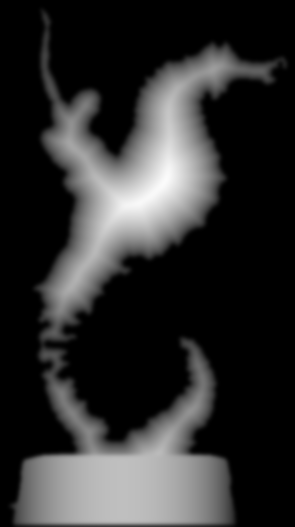
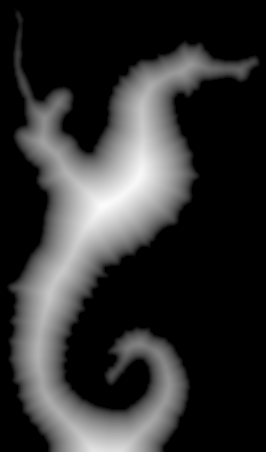
Caballito: complete the sunlit tail and turn it in full 3D
The cut-out now keeps the sun-lit golden bronze on the tail curl, so the
tail is whole. The statue is inflated into a closed two-sided volume and
stands on a real textured cylinder, so it turns a full 360 degrees.

Claude-Session: https://claude.ai/code/session_01EZpq1FJgh5fLrum1puGR5B

diff --git a/vallarta-web/scene3d.js b/vallarta-web/scene3d.js
@@ -1,27 +1,69 @@
 // "El Caballito" by Rafael Zamarripa, the boy riding a seahorse on the Puerto Vallarta Malecón.
-// The statue is the real photo, cut out and raised into a relief from a depth map, so every
-// detail (the boy's face, the ribs, the patina) is exactly the statue's. It turns slowly back and
-// forth on its own; visitors do not drag it. A full spin would show that the relief has no back,
-// so the turn stays within about 35 degrees each way.
+// Built in 3D from the real photo: the cut-out statue is inflated from its silhouette into a
+// closed, two-sided volume (front shell plus a mirrored back shell meeting at the outline), lit
+// so its shading changes as it turns. Every detail (the boy, the ribs, the patina) comes from
+// the photo. It turns a full circle on its own; visitors do not drag it.
 import * as THREE from "./vendor/three.module.min.js";
 import { GLTFLoader } from "./vendor/addons/loaders/GLTFLoader.js";
 import { RoomEnvironment } from "./vendor/addons/environments/RoomEnvironment.js";
 
-// Drop a real 3D scan of the statue here (for example from Polycam) and it is used instead,
-// turning a full 360 degrees.
+// Drop a real 3D scan of the statue here (for example from Polycam) and it is used instead.
 const REAL_MODEL_URL = "models/caballito.glb";
 const PHOTO_URL = "img/caballito.webp";
 const DEPTH_URL = "img/caballito-depth.png";
-const HEIGHT = 4.2;           // world units, statue + pedestal
-const RELIEF = 0.75;          // how far the thickest part stands out from the plane
-const SWAY = 0.6;             // radians each way
+const BASE_URL = "img/caballito-base.webp";
+const HEIGHT = 4.2;          // world units, statue + pedestal
+const RELIEF = 0.42;         // half-thickness of the thickest part; the real seahorse is flat-sided
+// Where each part sits in the source photo, in pixels: [left, top, right, bottom].
+const SRC = { statue: [152, 94, 418, 546], base: [134, 546, 362, 619] };
+
+function loadImage(src) {
+  return new Promise((resolve, reject) => {
+    const img = new Image();
+    img.onload = () => resolve(img);
+    img.onerror = reject;
+    img.src = src;
+  });
+}
+
+// One shell of the statue: a dense plane pushed out along z by the depth map.
+function shell(width, height, depth, dw, dh, sign) {
+  const sx = 260, sy = Math.round(260 * height / width);
+  const geo = new THREE.PlaneGeometry(width, height, sx, sy);
+  const pos = geo.attributes.position, uv = geo.attributes.uv;
+  for (let i = 0; i < pos.count; i++) {
+    const u = uv.getX(i), v = uv.getY(i);
+    const x = Math.min(dw - 1, Math.round(u * (dw - 1))), y = Math.min(dh - 1, Math.round((1 - v) * (dh - 1)));
+    const d = depth[(y * dw + x) * 4] / 255;
+    pos.setZ(i, sign * Math.max(0, d - 0.06) * RELIEF);
+  }
+  if (sign < 0) {
+    // Flip the winding so the back shell faces outward.
+    const idx = geo.index.array;
+    for (let i = 0; i < idx.length; i += 3) { const t = idx[i + 1]; idx[i + 1] = idx[i + 2]; idx[i + 2] = t; }
+  }
+  geo.computeVertexNormals();
+  return geo;
+}
 
 export function createScene(canvas, { reduceMotion = false } = {}) {
   const renderer = new THREE.WebGLRenderer({ canvas, antialias: true, alpha: true });
   renderer.setPixelRatio(Math.min(window.devicePixelRatio || 1, 2));
   renderer.outputColorSpace = THREE.SRGBColorSpace;
+  renderer.toneMapping = THREE.ACESFilmicToneMapping;
+  renderer.toneMappingExposure = 1.0;
 
   const scene = new THREE.Scene();
+  const pmrem = new THREE.PMREMGenerator(renderer);
+  scene.environment = pmrem.fromScene(new RoomEnvironment(renderer), 0.04).texture;
+  scene.add(new THREE.HemisphereLight(0xfff3e6, 0x2a4690, 0.9));
+  const key = new THREE.DirectionalLight(0xffe0c2, 1.8);
+  key.position.set(3, 4, 6);
+  scene.add(key);
+  const rim = new THREE.DirectionalLight(0xbfd2ff, 1.2);
+  rim.position.set(-4, 3, -5);
+  scene.add(rim);
+
   const camera = new THREE.PerspectiveCamera(30, 1, 0.1, 100);
   const pivot = new THREE.Group();
   scene.add(pivot);
@@ -32,49 +74,64 @@ export function createScene(canvas, { reduceMotion = false } = {}) {
     c.width = c.height = 128;
     const g = c.getContext("2d");
     const grad = g.createRadialGradient(64, 64, 4, 64, 64, 64);
-    grad.addColorStop(0, "rgba(12,16,33,0.45)");
+    grad.addColorStop(0, "rgba(12,16,33,0.4)");
     grad.addColorStop(1, "rgba(12,16,33,0)");
     g.fillStyle = grad;
     g.fillRect(0, 0, 128, 128);
     return new THREE.CanvasTexture(c);
   })();
-  const shadow = new THREE.Mesh(new THREE.PlaneGeometry(2.6, 0.9), new THREE.MeshBasicMaterial({ map: shadowTex, transparent: true, depthWrite: false }));
+  const shadow = new THREE.Mesh(new THREE.PlaneGeometry(3.4, 3.4), new THREE.MeshBasicMaterial({ map: shadowTex, transparent: true, depthWrite: false }));
   shadow.rotation.x = -Math.PI / 2;
   shadow.position.y = -HEIGHT / 2 + 0.01;
   scene.add(shadow);
 
-  let fullSpin = false;
-  const loader = new THREE.TextureLoader();
-  Promise.all([loader.loadAsync(PHOTO_URL), loader.loadAsync(DEPTH_URL)]).then(([photo, depth]) => {
+  let scanned = false;
+  const tex = new THREE.TextureLoader();
+  Promise.all([tex.loadAsync(PHOTO_URL), loadImage(DEPTH_URL), tex.loadAsync(BASE_URL)]).then(([photo, depthImg, baseTex]) => {
+    if (scanned) return;
     photo.colorSpace = THREE.SRGBColorSpace;
     photo.anisotropy = renderer.capabilities.getMaxAnisotropy();
-    const aspect = photo.image.width / photo.image.height;
-    const geo = new THREE.PlaneGeometry(HEIGHT * aspect, HEIGHT, 240, Math.round(240 / aspect));
-    // The photo already carries its own light, so it is shown unlit: emissive photo, black diffuse.
-    const mat = new THREE.MeshLambertMaterial({
-      color: 0x000000, map: photo, emissive: 0xffffff, emissiveMap: photo,
-      displacementMap: depth, displacementScale: RELIEF, alphaTest: 0.5, side: THREE.DoubleSide,
+    const c = document.createElement("canvas");
+    c.width = depthImg.width; c.height = depthImg.height;
+    const g = c.getContext("2d", { willReadFrequently: true });
+    g.drawImage(depthImg, 0, 0);
+    const depth = g.getImageData(0, 0, c.width, c.height).data;
+    const px = HEIGHT / (SRC.base[3] - SRC.statue[1]);           // world units per source pixel
+    const axis = (SRC.base[0] + SRC.base[2]) / 2;                 // the pedestal's center is the turning axis
+    const [sl, st, sr, sb] = SRC.statue;
+    const width = (sr - sl) * px, height = (sb - st) * px;
+    // Photo colors stay true (emissive) while the lights add shape as it turns.
+    const mat = new THREE.MeshStandardMaterial({
+      map: photo, emissive: 0xffffff, emissiveMap: photo, emissiveIntensity: 0.55,
+      roughness: 0.55, metalness: 0.1, alphaTest: 0.5,
     });
-    const relief = new THREE.Mesh(geo, mat);
-    relief.position.z = -RELIEF * 0.35;     // turn around the middle of the relief, not its back plane
-    if (!fullSpin) pivot.add(relief);
+    const body = new THREE.Group();
+    body.add(new THREE.Mesh(shell(width, height, depth, c.width, c.height, 1), mat));
+    body.add(new THREE.Mesh(shell(width, height, depth, c.width, c.height, -1), mat));
+    body.position.set(((sl + sr) / 2 - axis) * px, HEIGHT / 2 - height / 2, 0);
+    pivot.add(body);
+
+    // The round pedestal is a real cylinder: the photo's front half wraps around, mirrored behind.
+    const [bl, bt, br, bb] = SRC.base;
+    const radius = ((br - bl) / 2) * px, bh = (bb - bt) * px;
+    baseTex.colorSpace = THREE.SRGBColorSpace;
+    baseTex.wrapS = THREE.MirroredRepeatWrapping;
+    baseTex.repeat.x = 2;
+    const sideMat = new THREE.MeshStandardMaterial({ map: baseTex, emissive: 0xffffff, emissiveMap: baseTex, emissiveIntensity: 0.5, roughness: 0.9 });
+    const capMat = new THREE.MeshStandardMaterial({ color: 0x8d8270, roughness: 0.9 });
+    const base = new THREE.Mesh(new THREE.CylinderGeometry(radius, radius * 1.02, bh, 96, 1, false, -Math.PI / 2), [sideMat, capMat, capMat]);
+    base.position.y = -HEIGHT / 2 + bh / 2;
+    pivot.add(base);
   }).catch(() => { /* photo missing: the card shows its gradient only */ });
 
-  // A real scan replaces the relief and may turn all the way around.
   new GLTFLoader().loadAsync(REAL_MODEL_URL).then((gltf) => {
     const model = gltf.scene;
     const box = new THREE.Box3().setFromObject(model);
     model.scale.setScalar(HEIGHT / box.getSize(new THREE.Vector3()).y);
     box.setFromObject(model);
-    const c = box.getCenter(new THREE.Vector3());
-    model.position.set(-c.x, -HEIGHT / 2 - box.min.y, -c.z);
-    const pmrem = new THREE.PMREMGenerator(renderer);
-    scene.environment = pmrem.fromScene(new RoomEnvironment(renderer), 0.04).texture;
-    scene.add(new THREE.HemisphereLight(0xfff1e0, 0x26407f, 1.0));
-    const sun = new THREE.DirectionalLight(0xffc49a, 2.2);
-    sun.position.set(4, 7, 5);
-    scene.add(sun);
-    fullSpin = true;
+    const ctr = box.getCenter(new THREE.Vector3());
+    model.position.set(-ctr.x, -HEIGHT / 2 - box.min.y, -ctr.z);
+    scanned = true;
     pivot.clear();
     pivot.add(model);
   }).catch(() => { /* no scan yet */ });
@@ -86,11 +143,10 @@ export function createScene(canvas, { reduceMotion = false } = {}) {
     if (!w || !h) return;
     renderer.setSize(w, h, false);
     camera.aspect = w / h;
-    // Fit the full height with some air; pull back further on narrow cards.
     const k = 2 * Math.tan(THREE.MathUtils.degToRad(camera.fov / 2));
-    const dist = Math.max((HEIGHT * 1.18) / k, (HEIGHT * 0.9) / camera.aspect / k);
-    camera.position.set(0, 0.25, dist);
-    camera.lookAt(0, 0.05, 0);
+    const dist = Math.max((HEIGHT * 1.2) / k, (HEIGHT * 0.95) / camera.aspect / k);
+    camera.position.set(0, 0.6, dist);
+    camera.lookAt(0, 0, 0);
     camera.updateProjectionMatrix();
   }
   const ro = new ResizeObserver(resize);
@@ -98,12 +154,8 @@ export function createScene(canvas, { reduceMotion = false } = {}) {
 
   function frame() {
     const t = clock.getElapsedTime();
-    if (!reduceMotion) {
-      pivot.rotation.y = fullSpin ? t * 0.45 : Math.sin(t * 0.55) * SWAY;
-      pivot.position.y = Math.sin(t * 1.1) * 0.03;
-    } else {
-      pivot.rotation.y = fullSpin ? 0 : -0.25;
-    }
+    pivot.rotation.y = reduceMotion ? -0.35 : -0.35 + t * 0.4;
+    if (!reduceMotion) pivot.position.y = Math.sin(t * 1.1) * 0.03;
     renderer.render(scene, camera);
     raf = requestAnimationFrame(frame);
   }

diff --git a/vallarta-web/README.md b/vallarta-web/README.md
@@ -6,7 +6,7 @@ Static, multi-page site for a web design studio in Puerto Vallarta. No build ste
 
 - Five tabs: Inicio, Servicios, Trabajo, Nosotros, Contacto. Each tab is a `<section data-page>` in `index.html`, switched by the URL hash (`#servicios`). On tablets and phones the tabs become a bottom tab bar.
 - Three styles from the switch at the top center: Minimalistic, Premium, Interactive. Each one has its own layouts in `styles.css` under `[data-mode="minimal"]`, `[data-mode="premium"]` and `[data-mode="interactive"]`. The choice is saved and also works as a link: `?mode=interactive`.
-- Interactive mode shows El Caballito (the seahorse statue on the Malecón) in 3D: `scene3d.js` raises a cut-out photo (`img/caballito.webp`) into a relief using a depth map (`img/caballito-depth.png`) and turns it slowly back and forth. A real scan saved as `models/caballito.glb` replaces it and turns a full 360 degrees. three.js is self-hosted in `vendor/` (MIT license).
+- Interactive mode shows El Caballito (the seahorse statue on the Malecón) in 3D: `scene3d.js` inflates a cut-out photo (`img/caballito.webp`, with its depth map `img/caballito-depth.png`) into a two-sided volume, stands it on a real cylinder textured with the pedestal (`img/caballito-base.webp`), and turns it a full circle. A real scan saved as `models/caballito.glb` replaces it and turns a full 360 degrees. three.js is self-hosted in `vendor/` (MIT license).
 - The Caballito photo was supplied by the site owner. Confirm you have the rights to use it, or replace it with your own photo taken against a clear sky.
 - Three languages: Spanish text lives in `index.html`; English and French live in the `en` and `fr` objects in `app.js`.
 
